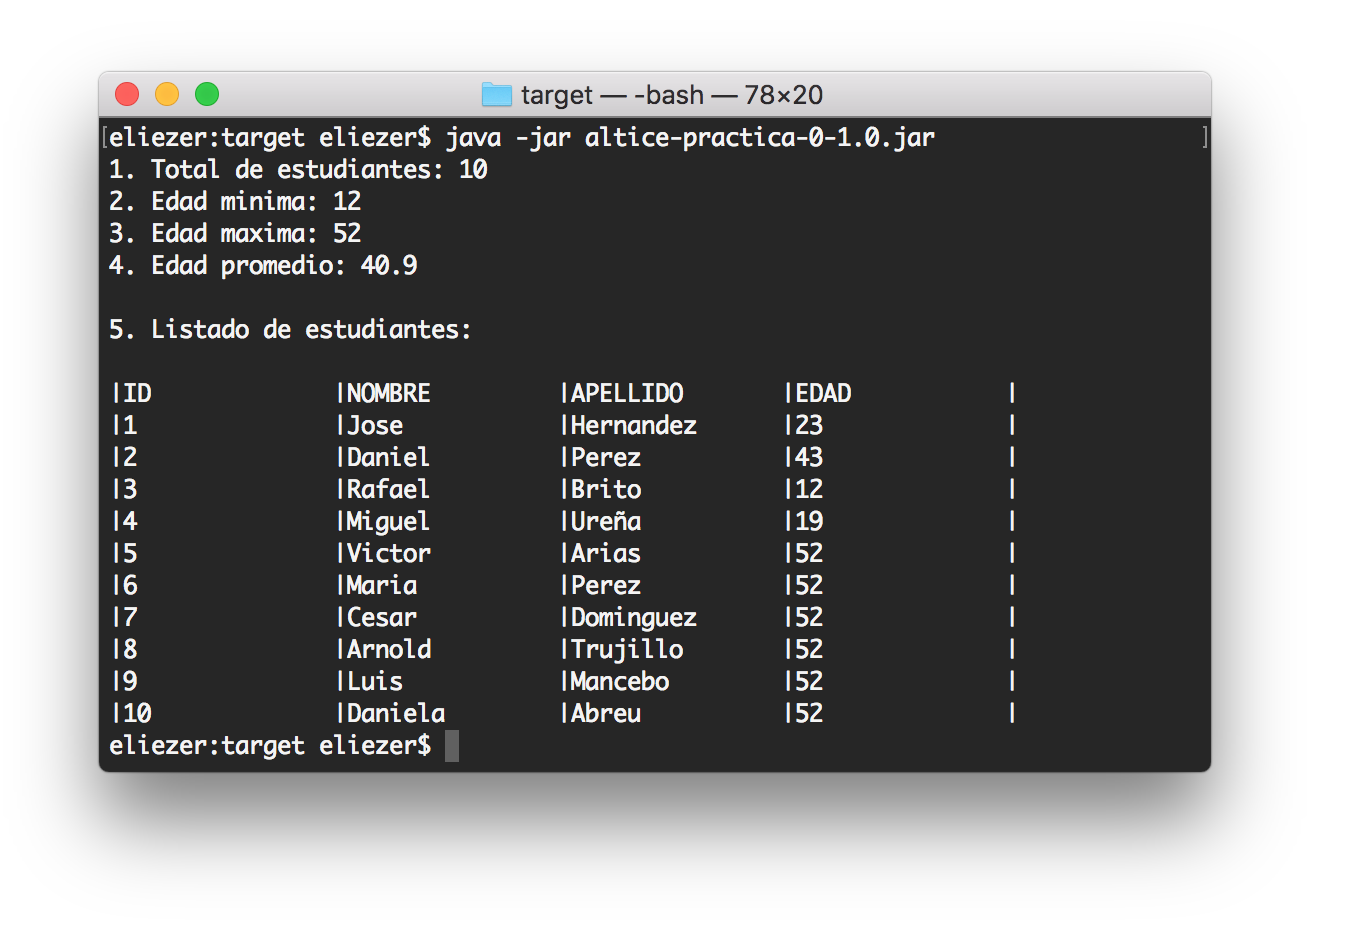
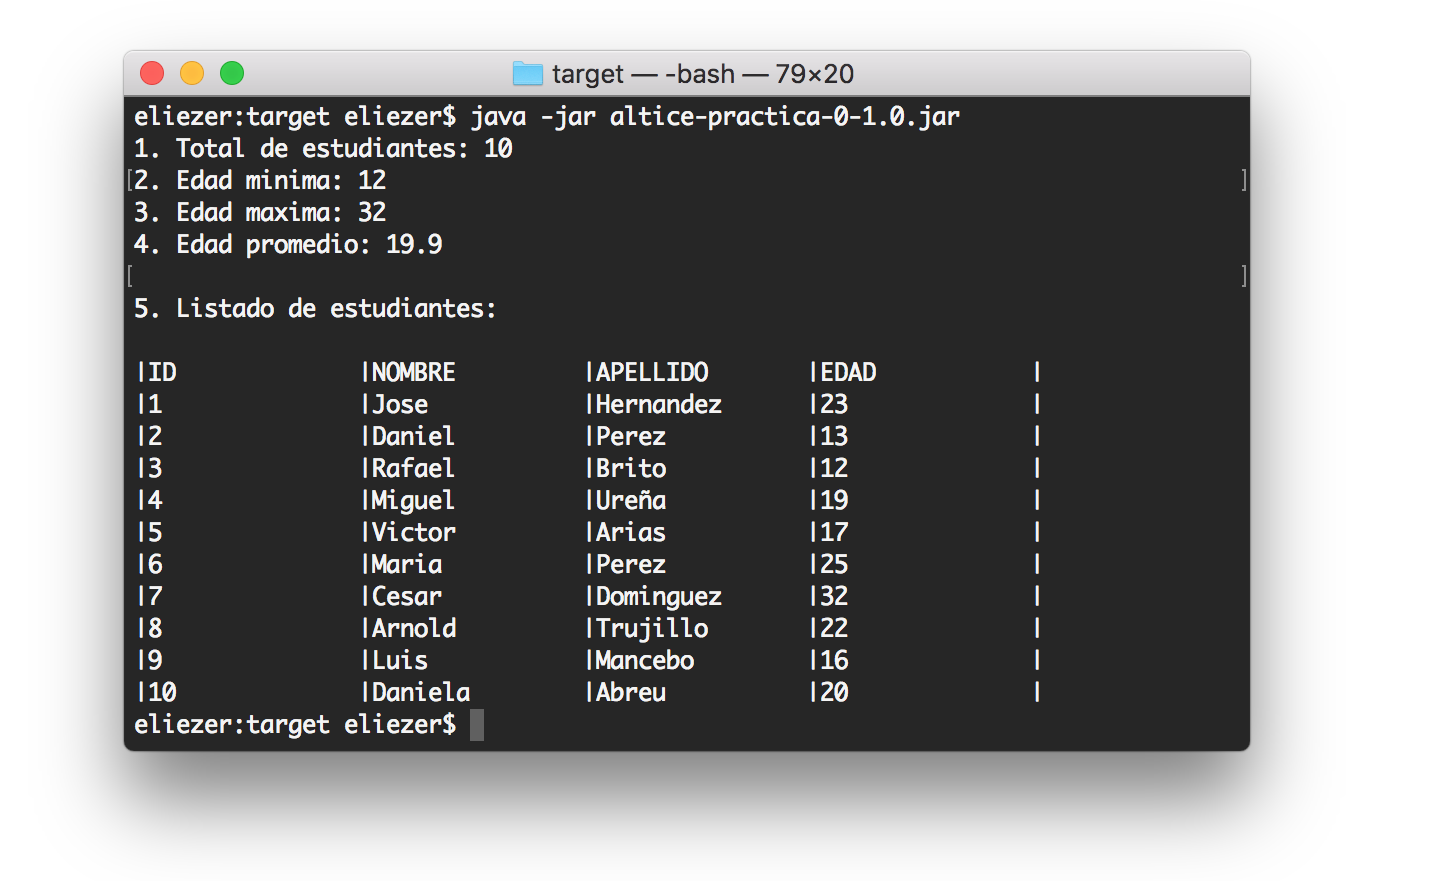
practica 0

Changed region(s): [[0.0624, 0.0613, 0.9354, 0.9194], [0.4053, 0.3984, 0.5301, 0.7968], [0.5612, 0.3984, 0.6236, 0.7968]]

diff --git a/altice-practica-0/src/main/java/com/github/zerh/App.java b/altice-practica-0/src/main/java/com/github/zerh/App.java
@@ -7,15 +7,15 @@ public class App {
 
     List<Student> students = Arrays.asList(
         new Student(1, "Jose", "Hernandez", 23),
-        new Student(2, "Daniel", "Perez", 43), 
+        new Student(2, "Daniel", "Perez", 13), 
         new Student(3, "Rafael", "Brito", 12),
         new Student(4, "Miguel", "Ureña", 19), 
-        new Student(5, "Victor", "Arias", 52),
-        new Student(6, "Maria", "Perez", 52), 
-        new Student(7, "Cesar", "Dominguez", 52),
-        new Student(8, "Arnold", "Trujillo", 52), 
-        new Student(9, "Luis", "Mancebo", 52),
-        new Student(10, "Daniela", "Abreu", 52)
+        new Student(5, "Victor", "Arias", 17),
+        new Student(6, "Maria", "Perez", 25), 
+        new Student(7, "Cesar", "Dominguez", 32),
+        new Student(8, "Arnold", "Trujillo", 22), 
+        new Student(9, "Luis", "Mancebo", 16),
+        new Student(10, "Daniela", "Abreu", 20)
     );
 
     App(){
